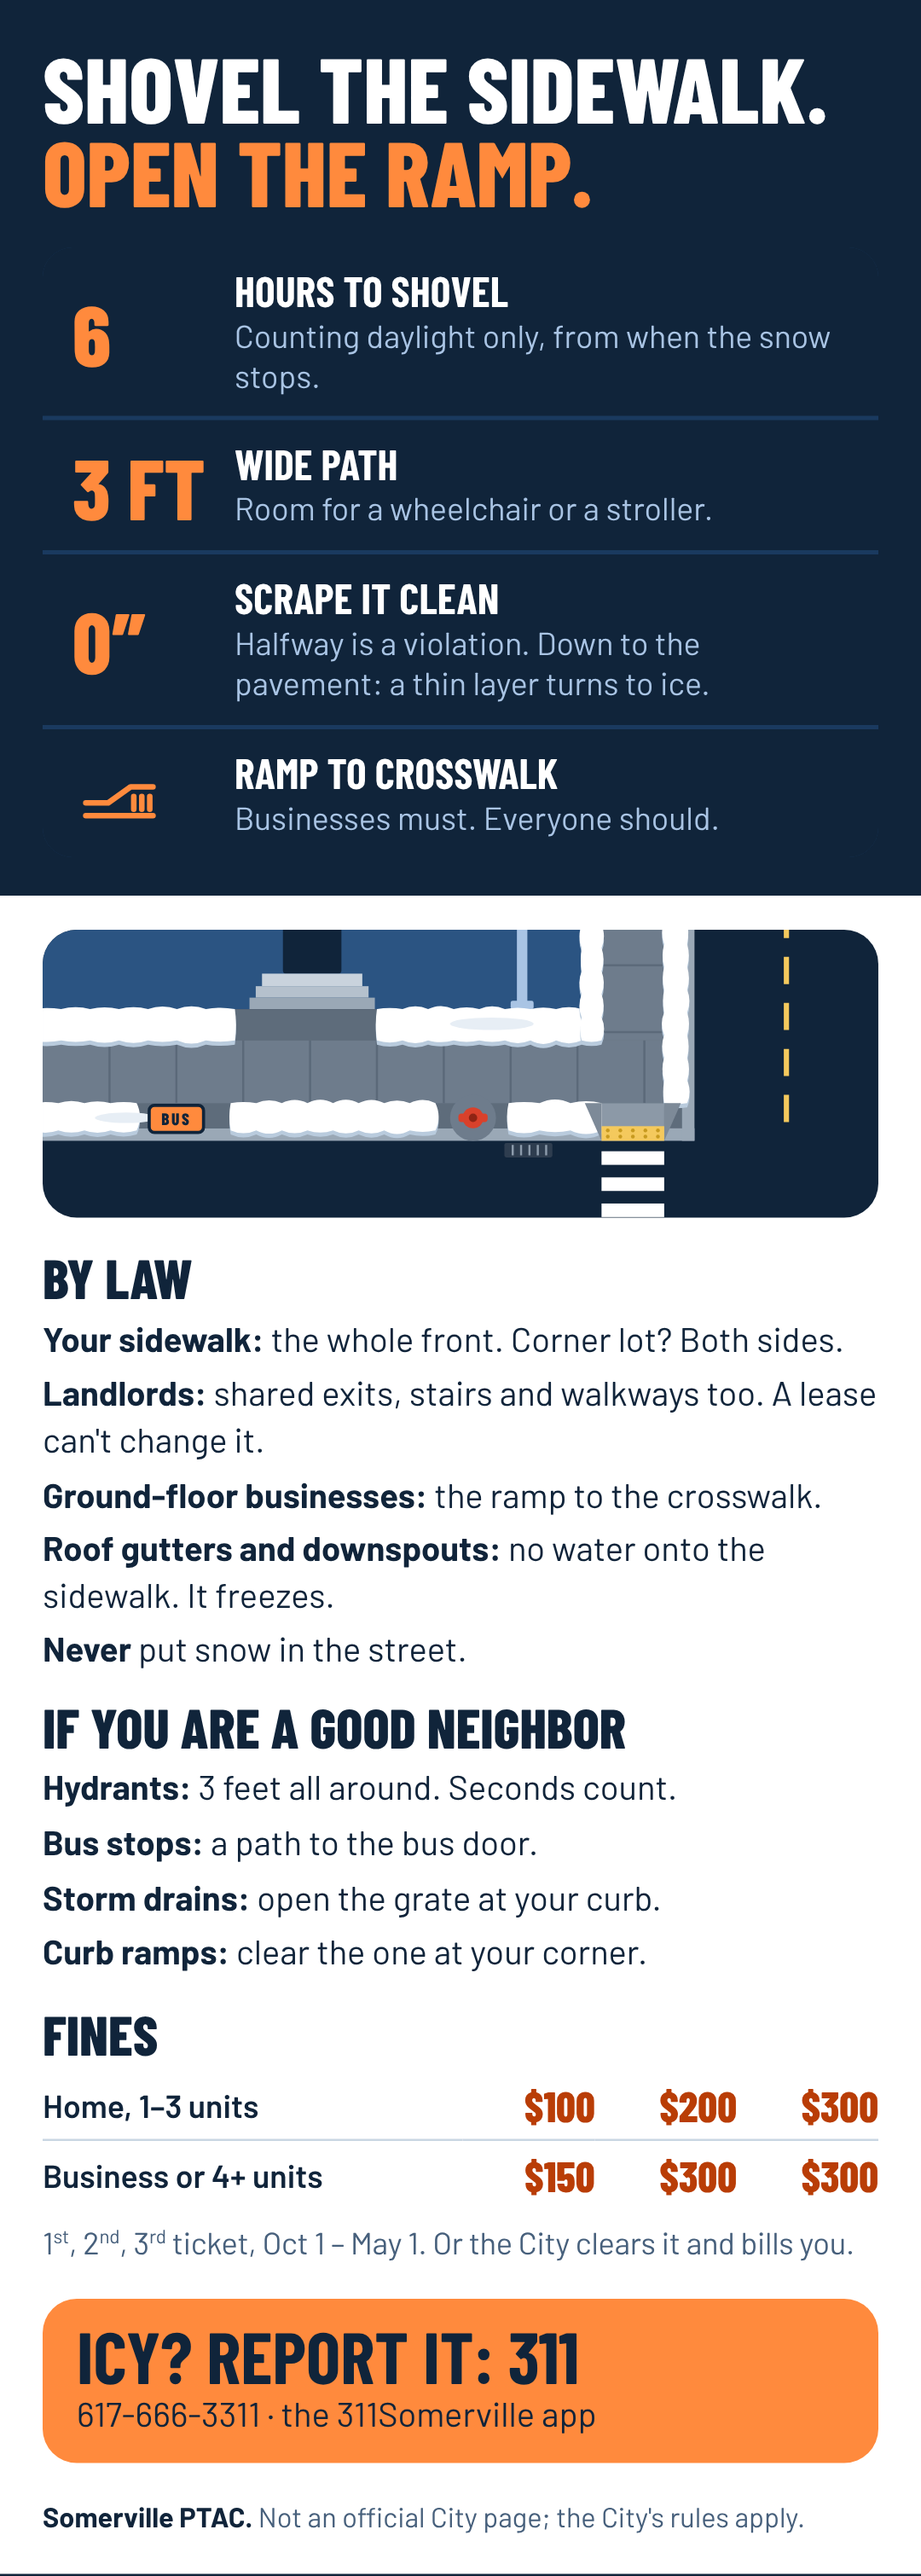
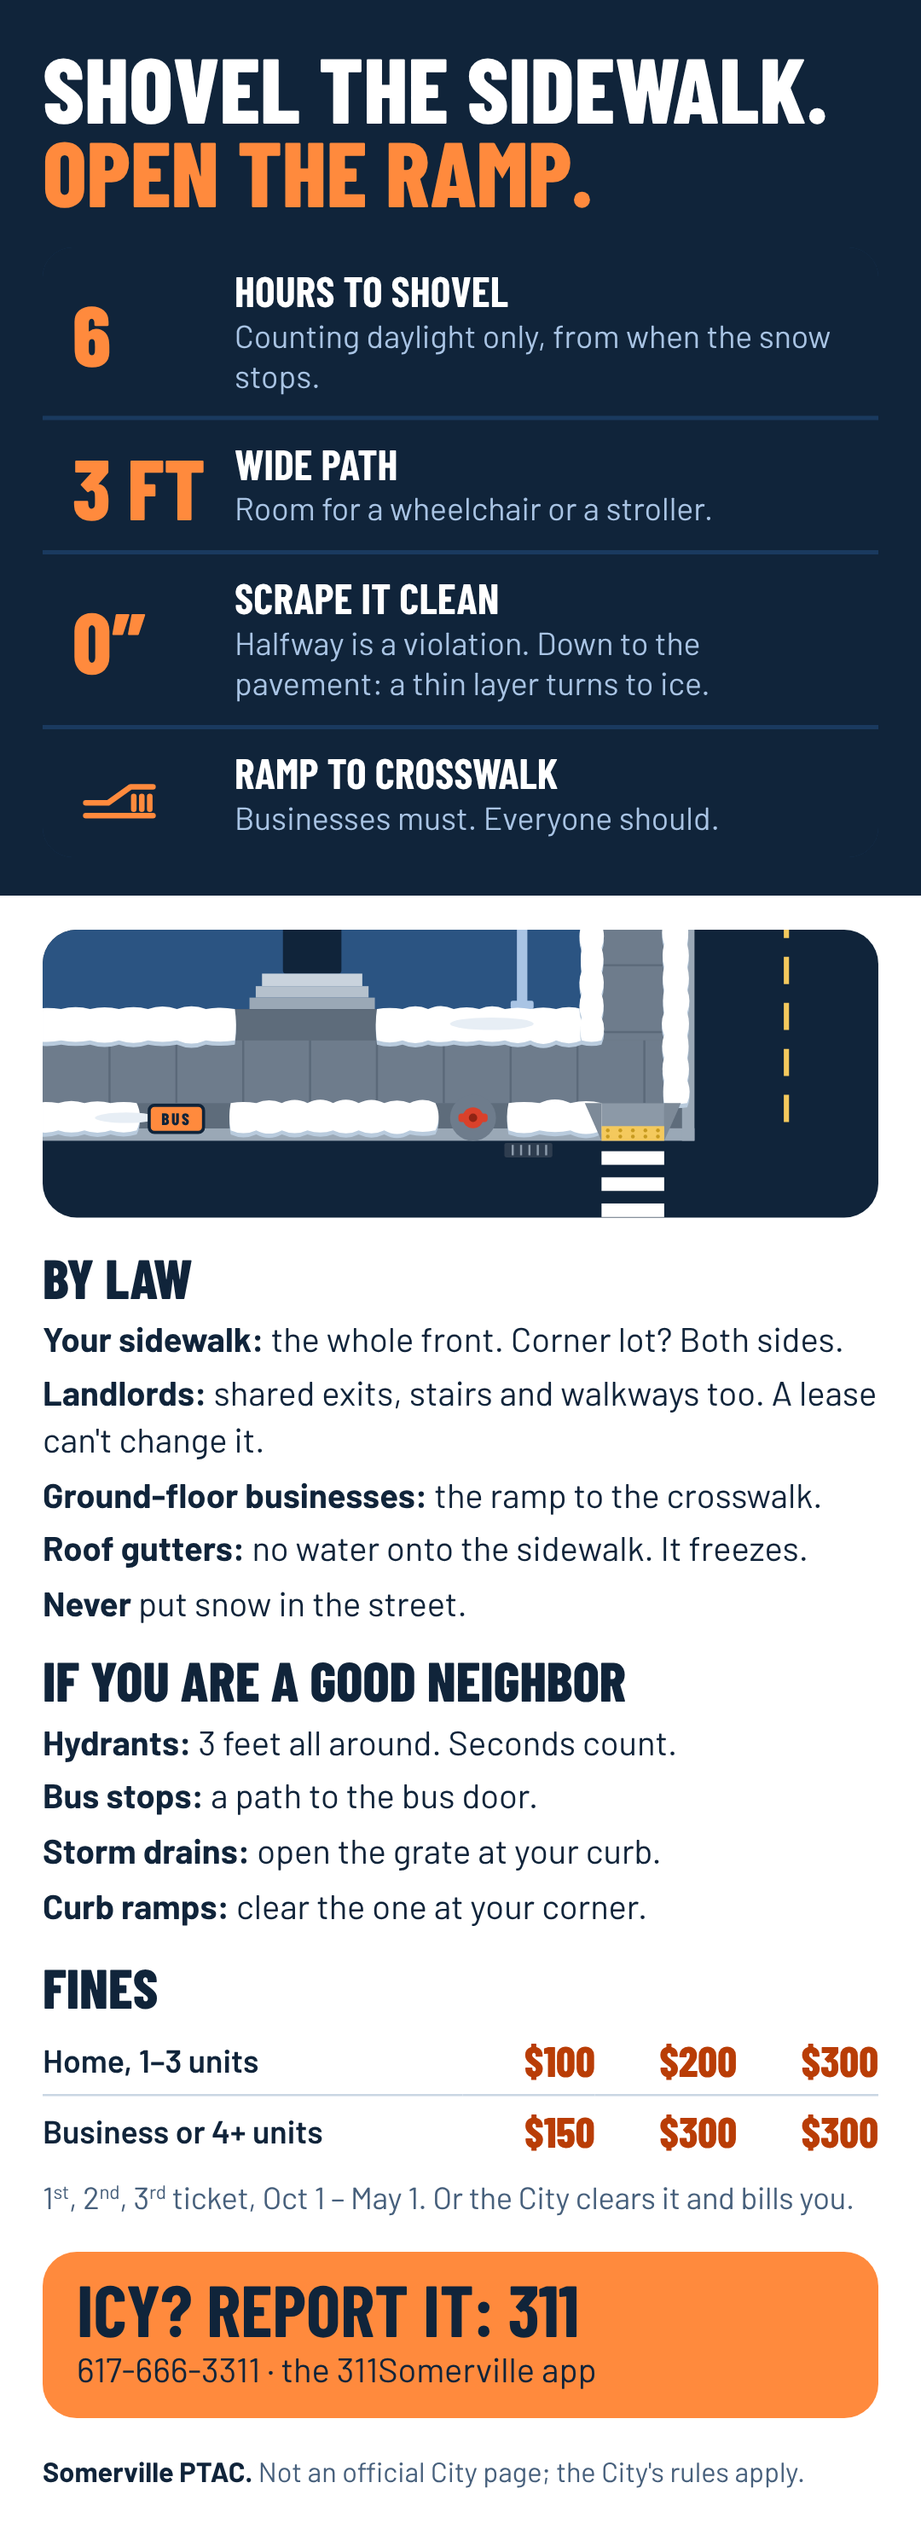
Phone flyer: shorter roof gutters line
Claude-Session: https://claude.ai/code/session_01NQ76C6nydNvs9N6wiqQBM6

diff --git a/docs/flyer-phone.html b/docs/flyer-phone.html
@@ -105,7 +105,7 @@ h2{font-size:26px;margin-bottom:6px}
           <li><b>Your sidewalk:</b> the whole front. Corner lot? Both sides.</li>
           <li><b>Landlords:</b> shared exits, stairs and walkways too. A lease can't change it.</li>
           <li><b>Ground-floor businesses:</b> the ramp to the crosswalk.</li>
-          <li><b>Roof gutters and downspouts:</b> no water onto the sidewalk. It freezes.</li>
+          <li><b>Roof gutters:</b> no water onto the sidewalk. It freezes.</li>
           <li><b>Never</b> put snow in the street.</li>
         </ul>
         <h2 class="h2b">If you are a good neighbor</h2>
